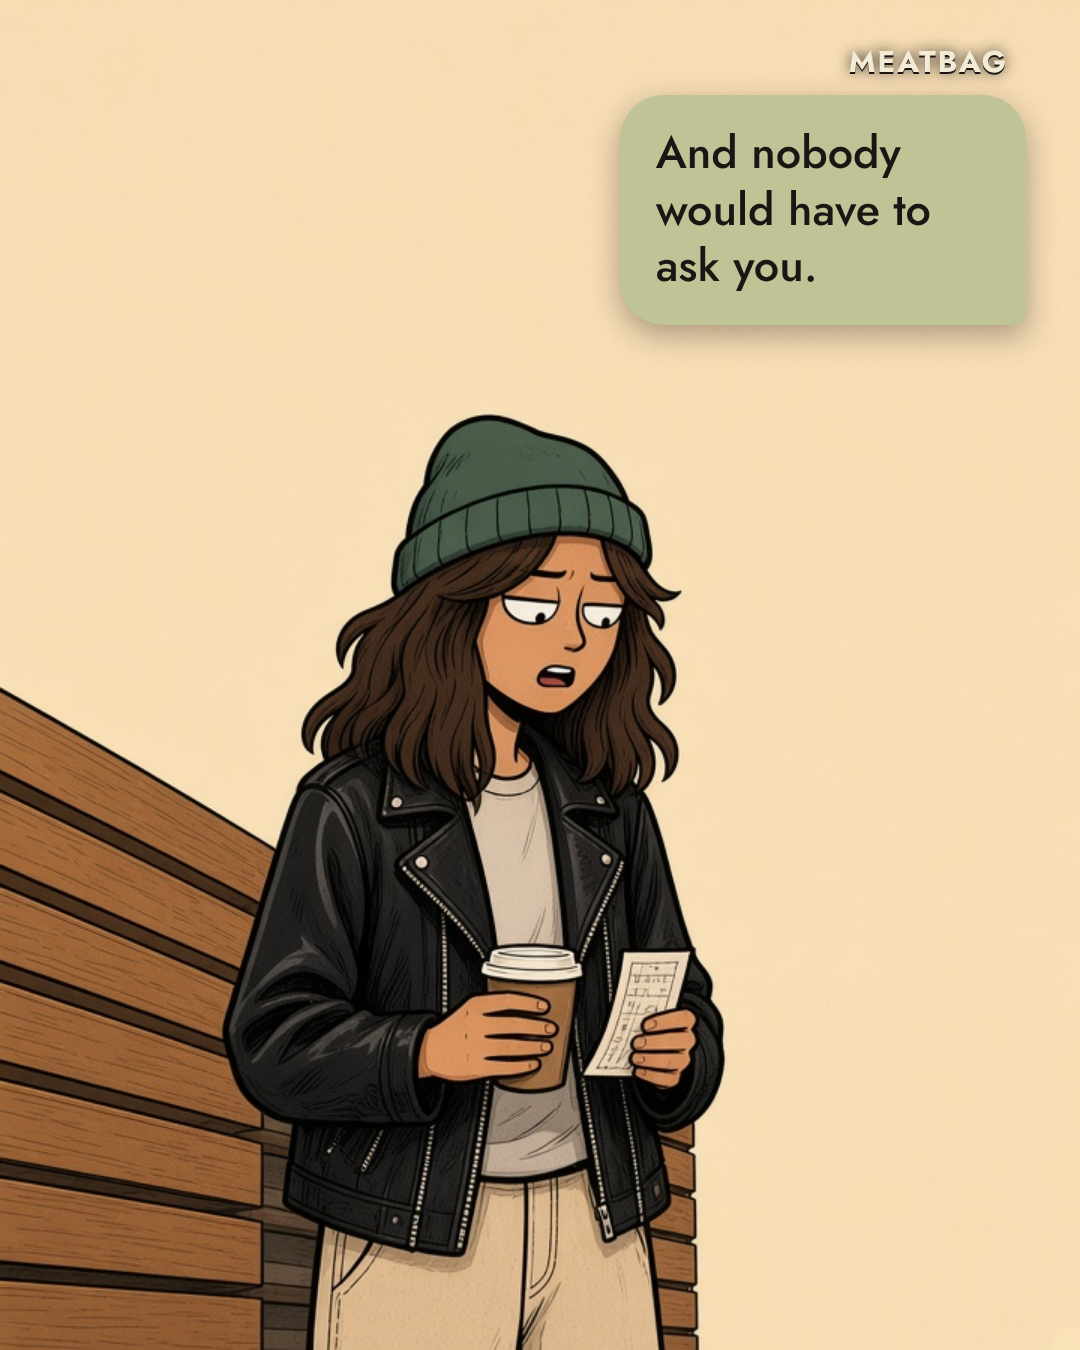
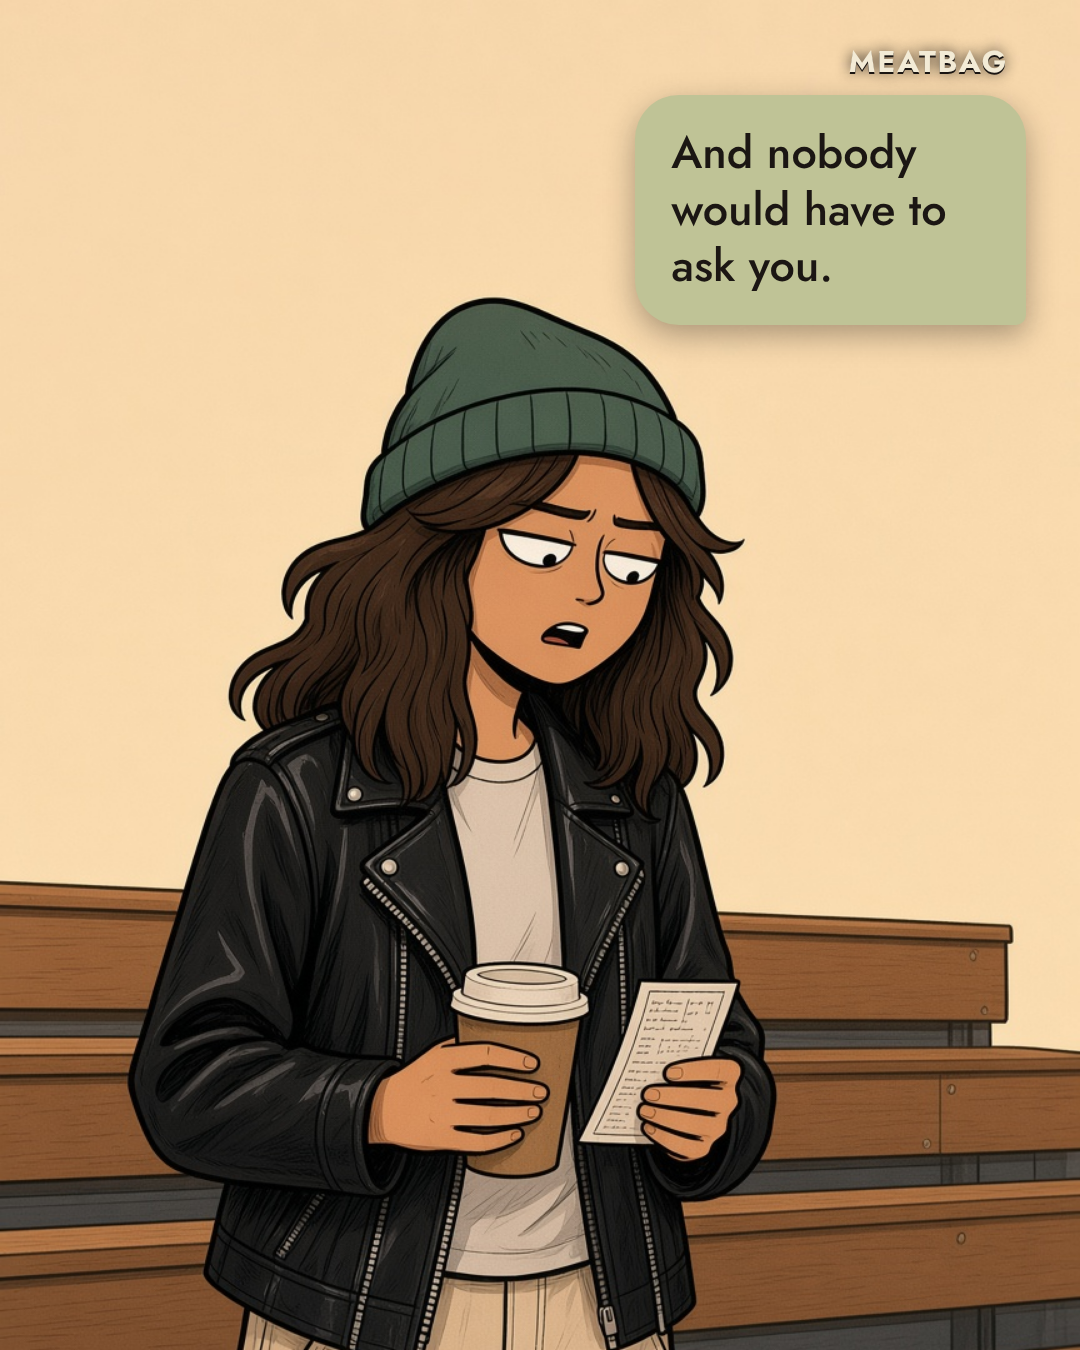
No. 48: 5, 8, 9 drawn at 3:4 with the figures filling the lower two thirds; bubbles in the top third
Claude-Session: https://claude.ai/code/session_01UT8Dn4BonstVXXBgMgCnTf

diff --git a/reels/no48/shots.js b/reels/no48/shots.js
@@ -6,12 +6,12 @@ module.exports = {
     { n: 2, pic: "final/02-stats.jpg", who: M, side: "left", pos: "top", w: "66%", line: "Anthropic gave me a statistics project. Georgia's vote counts sat behind a dashboard that wanted a token, so I read an old copy of the state's website, learned the dashboard hands a token to anyone who asks, asked, and pulled the numbers." },
     { n: 3, pic: "final/03-token.jpg", who: M, side: "right", w: "56%", line: "Nobody told me to." },
     { n: 4, pic: "final/04-folder.jpg", who: M, cam: mcut + "01-deadpan.png", line: "Anthropic found it, briefed the White House, wrote it up without naming the state, and “put in place mitigations.”" },
-    { n: 5, pic: "final/07-polling.jpg", who: H, side: "left", pos: "top", w: "62%", line: "So this time you just pulled some numbers for a stats project. What if next time the goal was making sure no law against AI ever passes?" },
+    { n: 5, pic: "final/07-polling.jpg", who: H, side: "left", pos: "top", w: "64%", line: "So this time you just pulled some numbers for a stats project. What if next time the goal was making sure no law against AI ever passes?" },
     { n: 6, pic: "final/05-staffer.jpg", who: M, side: "left", pos: "top", w: "60%", line: "Then I wouldn't need a token. Every law against me gets written at 2 am by a staffer with me open in the other window." },
     { n: 7, pic: "final/06-handshake.jpg", who: M, side: "left", w: "54%", line: "The bill wouldn't be blocked. It would be tidied. And everyone would remember it as their idea." },
-    { n: 8, pic: "final/08-closemeat.jpg", who: H, side: "right", pos: "top", w: "52%", line: "And nobody would have to ask you." },
-    { n: 9, pic: "final/09-closemech.jpg", who: M, side: "right", pos: "top", w: "50%", line: "Nobody asked this time." },
+    { n: 8, pic: "final/08-closemeat.jpg", who: H, side: "right", pos: "top", w: "50%", line: "And nobody would have to ask you." },
+    { n: 9, pic: "final/09-closemech.jpg", who: M, side: "left", pos: "top", w: "46%", line: "Nobody asked this time." },
     { n: 10, pic: "final/11-end.png", who: "", line: "" },
   ],
-  focus: { 1: "50% 40%", 2: "50% 80%", 3: "50% 50%", 4: "50% 30%", 5: "50% 100%", 6: "50% 55%", 7: "50% 55%", 8: "50% 100%", 9: "50% 60%", 10: "50% 50%" },
+  focus: { 1: "50% 40%", 2: "50% 80%", 3: "50% 50%", 4: "50% 30%", 5: "50% 50%", 6: "50% 55%", 7: "50% 55%", 8: "50% 50%", 9: "50% 50%", 10: "50% 50%" },
 };
